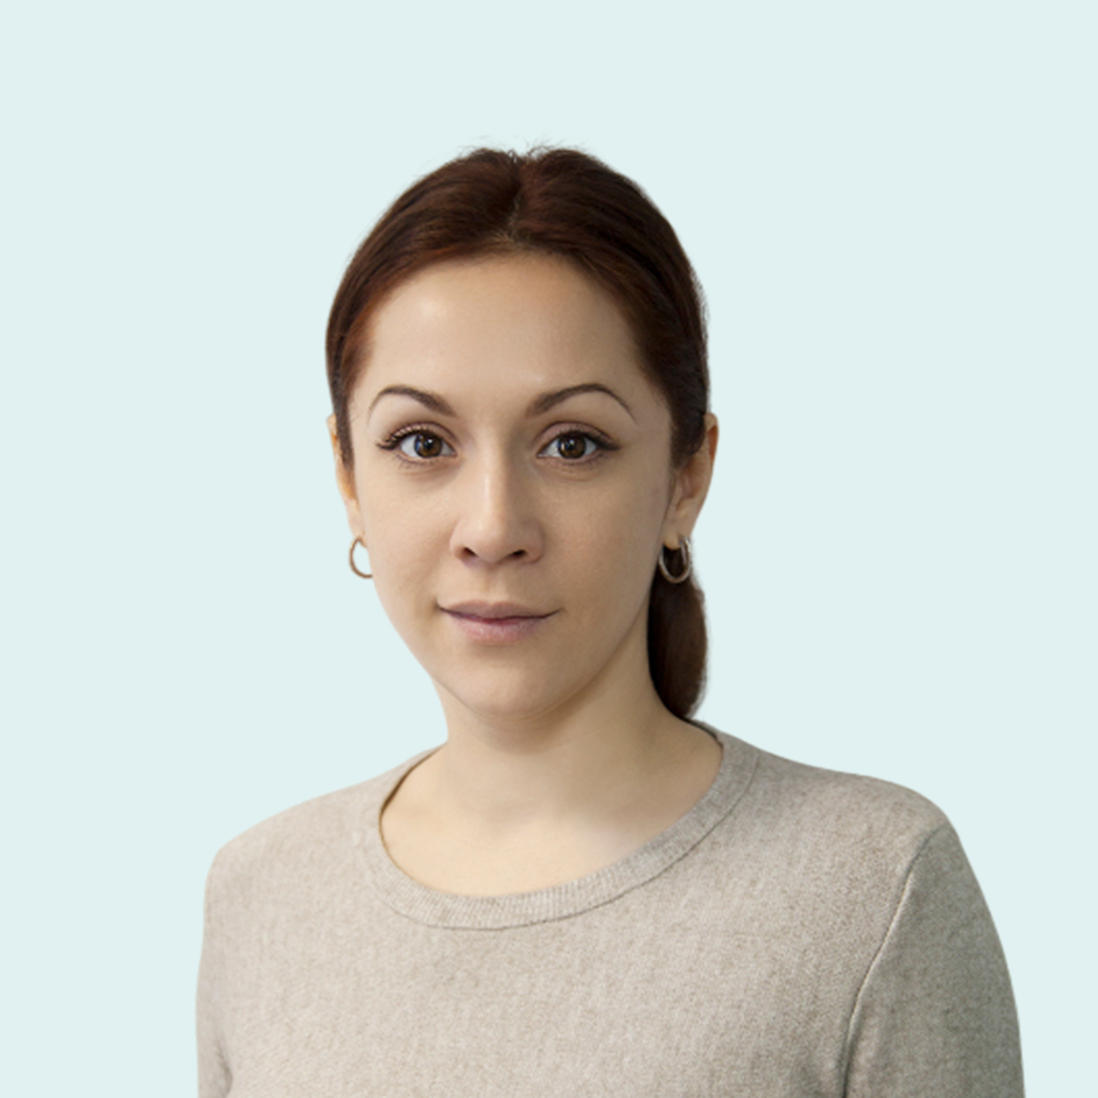
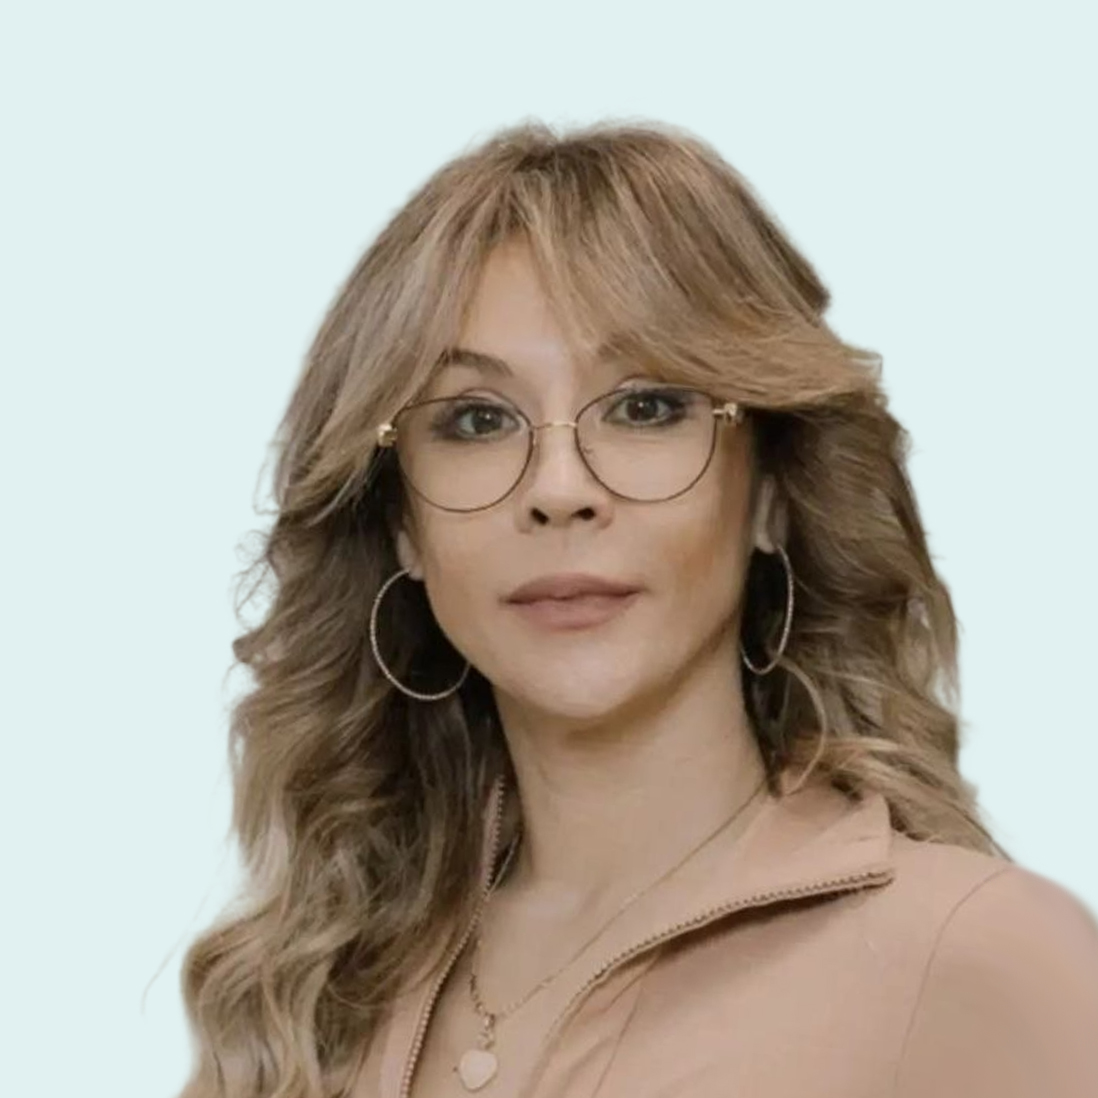
added new and update photo

diff --git a/web/data/news/24.md b/web/data/news/24.md
@@ -1,0 +1,50 @@
+В финале главного интеллектуального состязания страны по математике приняли участие 499 школьников 9—11-х классов из 82 субъектов России. Победителями стали ученики из Москвы, Республики Татарстан, Санкт-Петербурга, Свердловской, Курганской, Челябинской и Новосибирской областей. Статус призера ВсОШ по математике получили дети из 30 регионов страны, в том числе 66 участников из Москвы, 38 — из Санкт-Петербурга, 22 — из Татарстана, 15 — из Московской области, 8 — из Тюменской области, по 4 — из Ульяновской и Новосибирской областей.
+
+![alt](/site/image/news/24/2.jpg)
+
+Работы финалистов оценивало экспертное жюри, в состав которого вошли преподаватели и научные сотрудники ведущих российских вузов и других учебных заведений. Организаторами заключительного этапа ВсОШ по математике выступили Министерство просвещения России, Департамент образования и науки города Москвы, Институт содержания и методов обучения имени В. С. Леднева и Центральный университет при поддержке партнеров в лице Т-Банка, Сбера и X5 Tech.
+
+![alt](/site/image/news/24/3.jpg)
+
+Заключительный этап олимпиады проходил с 14 по 20 апреля в Москве. Торжественное открытие состоялось в Московском театре мюзикла, где перед школьниками с напутственными словами выступили организаторы и представители компаний-партнеров. 15 и 16 апреля прошли заключительные туры ВсОШ: каждый из двух туров длился пять часов и состоял из четырех задач.
+
+Кроме соревновательной части во время проведения олимпиады для школьников была организована культурная и образовательная программа. Участники посетили офисы Т-Банка, Сбера, X5 Tech, а также Математический институт им. В. А. Стеклова. Еще был организован показ фильма «Влюбленные в математику», во время которого со школьниками общались создатели картины: ведущий российский математик Александр Гасников и режиссер Ольга Ажнакина.
+
+17 апреля состоялась образовательная часть ВсОШ. Перед участниками выступили ведущие профессора, исследователи и представители бизнеса из НИУ ВШЭ, Центрального университета, МФТИ, СПбГУ, ИТМО, Т-Банка, Сбера, X5 Tech. В рамках лекций спикеры говорили о математике, ее применении в задачах бизнеса, о парадоксе статистики и искусственном интеллекте в математическом смысле.
+
+![alt](/site/image/news/24/4.jpg)
+
+Культурно-развлекательная программа была посвящена Году единства народов России и прошла на ВДНХ. Также для участников был организован ряд экскурсий по главным достопримечательностям и культурным местам столицы.
+
+Торжественная церемония награждения состоялась 20 апреля на концертной площадке «ТАУ». Победителей и призеров ВсОШ по математике поздравили организаторы и партнеры олимпиады.
+
+![alt](/site/image/news/24/5.jpg)
+
+**Евгений Ивашкевич, ректор Центрального университета и сопредседатель оргкомитета заключительного этапа ВсОШ по математике:**
+
+> «Олимпиада — это спорт. И здесь вы соревновались в решении сложных задач. На самом деле, когда вы выйдете в большую жизнь, то обнаружите, что она не сводится только к решению хорошо поставленных задач. Работа жюри и команды, которые проводили эту олимпиаду, колоссальна. Это очень сложная работа — придумать задачи. Но когда вы начнете работать в науке или в бизнесе, то обнаружите, что хорошо поставленных задач очень мало. Часто задачи приходится придумывать себе самому. Глядя на свой жизненный путь длиной почти в 40 лет, я могу сказать: самая типичная постановка задачи, которую вам придется решать в реальной жизни, звучит так: „Поди туда — не знаю куда, принеси то — не знаю что, но сделай так, чтобы всем было хорошо“. И я рекомендую вам учиться решать и такие задачи тоже».
+
+**Назар Агаханов, председатель центральной предметно-методической комиссии ВсОШ по математике, доцент кафедры высшей математики МФТИ:**
+
+> «Главное на олимпиаде — это задачи. Задачи интересные и творческие — это ваш первый шаг в науку. Я хочу поблагодарить вас за интересную, красивую работу. Хочется вам пожелать удачи и успехов и в этом году, и в последующих. Добавлю напоследок: организатором олимпиады является Министерство просвещения России, которое выступает идеологом олимпиадного движения. Хочется выразить искреннюю благодарность соорганизатору заключительного этапа олимпиады этого года, Центральному университету, и всей прекрасной команде, с которой мы встречались практически каждый день».
+
+**Станислав Близнюк, президент группы «Т-Технологии» и сопредседатель оргкомитета заключительного этапа ВсОШ по математике:**
+
+> «С детства нас учили, что математика — царица наук. Когда я учился в школе, это была просто фраза. Но сейчас с каждым годом я все больше понимаю, что это действительно так. Математика — царица наук, а мы с вами — ее ученики. Присоединяюсь ко всем поздравлениям и желаю вам получать удовольствие от математики и по жизни использовать все ее инструменты. В заключение хочу сказать большое спасибо финалистам, их родителям и, конечно, учителям. Учителя вкладывают в учеников капельку своей души. И, безусловно, это огромный труд родителей, чтобы вы здесь оказались».
+
+**Ольга Цуканова, управляющий директор — руководитель Дирекции академических партнерств Сбера:**
+
+> «Математику неслучайно называют царицей наук, и для нас она занимает особое место, потому что учит мыслить глубоко, точно и системно — а это качество потом становится основой для самых разных профессиональных траекторий. История знает много таких примеров: Андрей Колмогоров создал математический фундамент теории вероятностей, на котором сегодня стоит все — от искусственного интеллекта до финансовых рынков. Леонид Канторович начинал как чистый математик — и стал нобелевским лауреатом по экономике. Мы верим, что среди сегодняшних участников олимпиады — будущие ученые, инженеры, исследователи и лидеры технологических изменений. Поэтому нам было важно поддержать их не только признанием, но и новыми возможностями: победители и призеры из 9—10-х классов получили гранты на летние смены МФТИ, а 11 лучших участников из 11-х классов — офферы на стажировку в Сбере».
+
+**Александр Костин, управляющий директор Х5 Tech:**
+
+> «Для нас участие во Всероссийской олимпиаде для школьников по математике — это не разовая инициатива, а системная работа с будущими инженерами: именно здесь уже сегодня есть ребята с сильным, системным мышлением, умеющие работать в условиях неопределенности и быстро находить оптимальные решения. Мы рассматриваем это как инвестицию в будущее инженерии — хотим как можно раньше познакомиться с ними, показать реальные вызовы бизнеса и дать возможность вырасти вместе с X5 Tech».
+
+![alt](/site/image/news/24/6.jpg)
+
+Дипломы победителей и призеров олимпиады действуют четыре года и дают право поступления без вступительных испытаний в ведущие российские вузы по соответствующему профилю. В Центральном университете призовое место на ВсОШ по математике дает право на грант в размере 100% стоимости обучения. ВсОШ ежегодно проходит в России по 24 общеобразовательным предметам, а участие принимают более 7 млн школьников из всех регионов страны.
+
+![alt](/site/image/news/24/7.jpg)
+
+
+
